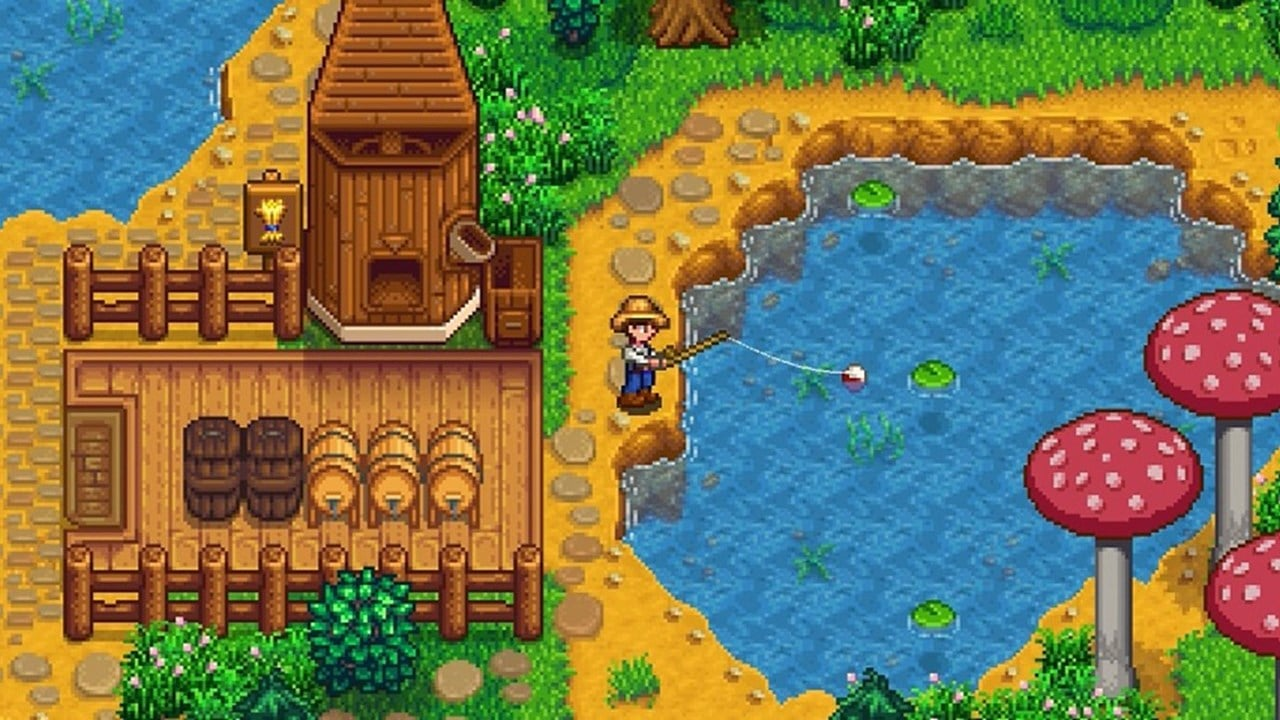
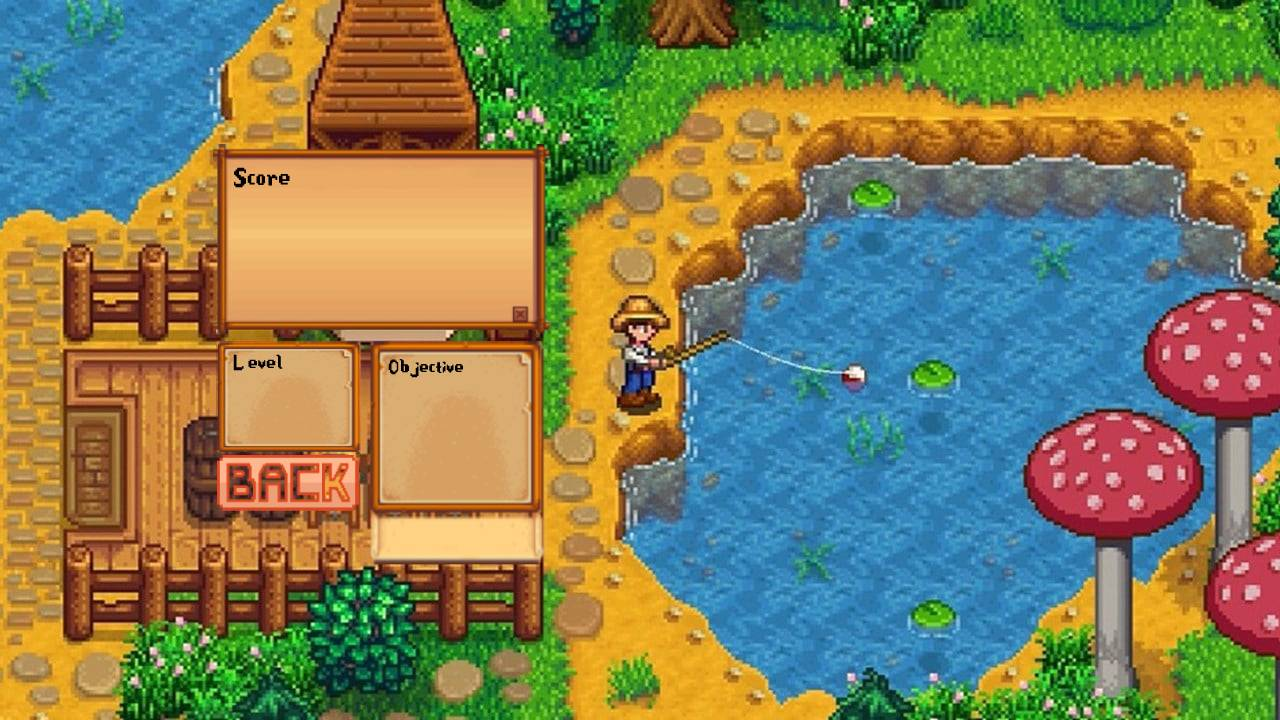
mais adicoes para o menu

Changed region(s): [[0.1562, 0.1833, 0.4375, 0.7944]]

diff --git a/PROG2/jewels/menu.c b/PROG2/jewels/menu.c
@@ -20,7 +20,12 @@ void drawMainMenu(gameManager_t *gm)
 
 void drawTopScoreUI(gameManager_t *gm)
 {
-    al_draw_bitmap(gm->otherBitmaps[TOP_SCORE_UI], 0, 0, 0);
+    al_draw_bitmap(gm->otherBitmaps[TOP_SCORE_UI], 250, 0, 0);
+}
+
+void drawCreditsUI(gameManager_t *gm)
+{
+    al_draw_bitmap(gm->otherBitmaps[CREDITS_UI], 150, 0, 0);
 }
 
 int isButtonSelected(gameManager_t *gm)
@@ -98,7 +103,7 @@ void runMenu(gameManager_t *gm)
                 if (gm->menuState == MAIN_MENU){
                     switch (isButtonSelected(gm)){
                     case 1:
-                        gm->menuState = MAIN_MENU;
+                        gm->menuState = MAIN_MENU; 
                         break;
                     case 2:
                         gm->menuState = TOPSCORE_MENU;
@@ -116,18 +121,18 @@ void runMenu(gameManager_t *gm)
                     }
                 }
 
-                /* casos para pop-ups */
+                /* casos para sair de pop-ups */
                 if (gm->menuState == TOPSCORE_MENU){
-                    if (gm->mouseX >= 0 && gm->mouseX <= 100){
-                        if (gm->mouseY >= 0 && gm->mouseY <= 100){
+                    if (gm->mouseX >= 336 && gm->mouseX <= 452){
+                        if (gm->mouseY >= 79 && gm->mouseY <= 120){
                             gm->menuState = MAIN_MENU;
                         }
                     }
                 }
 
                 if (gm->menuState == CREDITS_MENU){
-                    if (gm->mouseX >= 0 && gm->mouseX <= 100){
-                        if (gm->mouseY >= 0 && gm->mouseY <= 100){
+                    if (gm->mouseX >= 285 && gm->mouseX <= 415){
+                        if (gm->mouseY >= 103 && gm->mouseY <= 150){
                             gm->menuState = MAIN_MENU;
                         }
                     }
@@ -153,7 +158,7 @@ void runMenu(gameManager_t *gm)
 
                 case CREDITS_MENU:
                     drawMainMenu(gm);
-                    /* drawCreditsUI(gm); */
+                    drawCreditsUI(gm);
                     break;
 
                 case IN_GAME:

diff --git a/PROG2/jewels/update.c b/PROG2/jewels/update.c
@@ -59,7 +59,7 @@ bool checkMatch(gameManager_t *gm)
             if (i < MATRIX_SIZE - 2)
             {
                 if ((gm->matrix[i][j]->fishType == gm->matrix[i+1][j]->fishType) &&
-                    (gm->matrix[i][j]->fishType == gm->matrix[i+2][j]->fishType)){
+                    (gm->matrix[i+1][j]->fishType == gm->matrix[i+2][j]->fishType)){
                         gm->matrix[i][j]->matched = 1;
                         gm->matrix[i+1][j]->matched = 1;
                         gm->matrix[i+2][j]->matched = 1;
@@ -70,7 +70,7 @@ bool checkMatch(gameManager_t *gm)
             if (j < MATRIX_SIZE - 2)
             {
                 if ((gm->matrix[i][j]->fishType == gm->matrix[i][j+1]->fishType) &&
-                    (gm->matrix[i][j]->fishType == gm->matrix[i][j+2]->fishType)){
+                    (gm->matrix[i][j+1]->fishType == gm->matrix[i][j+2]->fishType)){
                         gm->matrix[i][j]->matched = 1;
                         gm->matrix[i][j+1]->matched = 1;
                         gm->matrix[i][j+2]->matched = 1;

diff --git a/PROG2/jewels/run.c b/PROG2/jewels/run.c
@@ -17,8 +17,6 @@ void runGame(gameManager_t *gm)
     bool redraw = true;
     ALLEGRO_EVENT ev;
 
-    al_start_timer(gm->timer);
-
     /* Loop principal do jogo */
     while (1)
     {
@@ -58,11 +56,21 @@ void runGame(gameManager_t *gm)
                         gm->selected = 2;
                     }
                 }
+
+                /* Verifica se clicou no botao BACK */
+                if (gm->mouseX >= 222 && gm->mouseX <= 352){
+                    if (gm->mouseY >= 460 && gm->mouseY <= 507){
+                        done = true;
+                    }
+                }
+
                 break;
         }
 
-        if (done)
+        if (done){
+            gm->menuState = MAIN_MENU;
             break;
+        }
 
         if (redraw && al_is_event_queue_empty(gm->evQueue))
         {

diff --git a/PROG2/jewels/init.c b/PROG2/jewels/init.c
@@ -59,6 +59,7 @@ void loadAddons(gameManager_t *gm)
     gm->otherBitmaps[OBJECTIVE_BOARD] = al_load_bitmap("addons/images/objectiveBoard.png");
     gm->otherBitmaps[SCORE_BOARD] = al_load_bitmap("addons/images/scoreBoard.png");
     gm->otherBitmaps[TOP_SCORE_UI] = al_load_bitmap("addons/images/topscore.png");
+    gm->otherBitmaps[CREDITS_UI] = al_load_bitmap("addons/images/credits.png");
 
     /* Carrega as fontes */
     gm->fonts[MAIN_FONT] = al_load_ttf_font("addons/fonts/StVlRegular.ttf", 20, 0);

diff --git a/PROG2/jewels/draw.c b/PROG2/jewels/draw.c
@@ -11,11 +11,6 @@
 
 /* ------------- Funcoes internas ------------- */
 
-void drawUI(gameManager_t *gm)
-{
-    al_draw_bitmap(gm->otherBitmaps[SCORE_BOARD], 220, 120, 0);
-    al_draw_bitmap(gm->otherBitmaps[OBJECTIVE_BOARD], 275, 320, 0);
-}
 
 /* ------------- Funcoes globais -------------*/
 
@@ -45,7 +40,4 @@ void updateVisual(gameManager_t *gm)
         aux1 += 80;
         aux2 = 0;
     }
-
-    /* Desenha o resto da UI */
-    drawUI(gm);
 }
